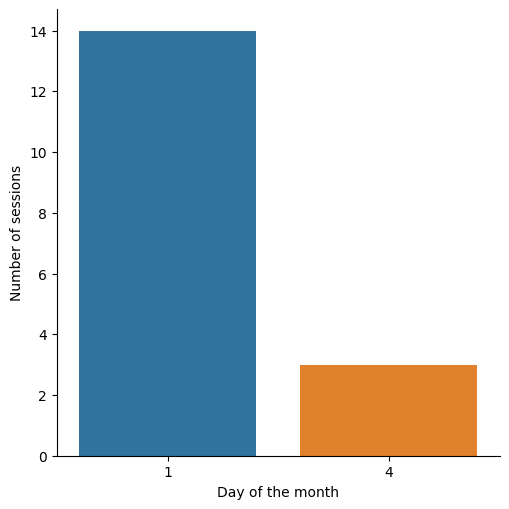
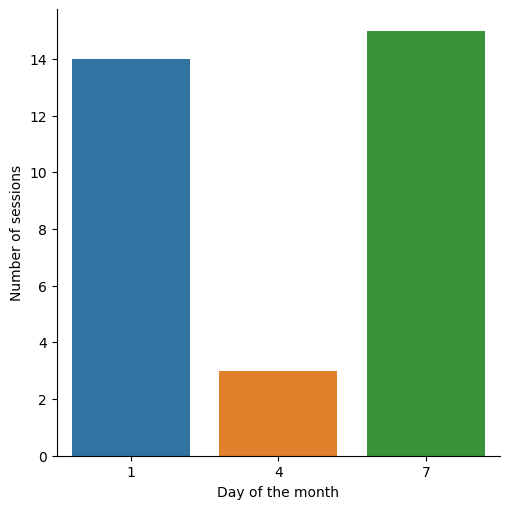
"Stats generated 2021-10-08"

diff --git a/all/2021/10/weekdays/3/index.html b/all/2021/10/weekdays/3/index.html
@@ -1,0 +1,29 @@
+<!DOCTYPE html>
+<html>
+  <head>
+    <meta charset="utf-8"/>
+    <title>Thursdays October 2021</title>
+    <link rel="stylesheet" href="../../../../../styles.css"/>
+  </head>
+  <body>
+    <div id="container">
+      <nav>
+        <ul>
+          
+            <li><a href="../../">October 2021</a></li>
+            <li class="separator"></li>
+          
+          
+        </ul>
+      </nav>
+      <main>
+        <h1>Thursdays October 2021</h1>
+        
+          <h2>Number of sessions per hour</h2>
+          <img src="sessions.png" alt="Number of sessions per hour"/>
+        
+        
+      </main>
+    </div>
+  </body>
+</html>

diff --git a/all/2021/10/days/7/index.html b/all/2021/10/days/7/index.html
@@ -1,0 +1,29 @@
+<!DOCTYPE html>
+<html>
+  <head>
+    <meta charset="utf-8"/>
+    <title>7 October 2021</title>
+    <link rel="stylesheet" href="../../../../../styles.css"/>
+  </head>
+  <body>
+    <div id="container">
+      <nav>
+        <ul>
+          
+            <li><a href="../../">October 2021</a></li>
+            <li class="separator"></li>
+          
+          
+        </ul>
+      </nav>
+      <main>
+        <h1>7 October 2021</h1>
+        
+          <h2>Number of sessions per hour</h2>
+          <img src="sessions.png" alt="Number of sessions per hour"/>
+        
+        
+      </main>
+    </div>
+  </body>
+</html>

diff --git a/all/2021/10/index.html b/all/2021/10/index.html
@@ -23,6 +23,10 @@
             
           
             
+              <li><a href="weekdays/3/">Thursday</a></li>
+            
+          
+            
               <li><a href="weekdays/4/">Friday</a></li>
             
           
@@ -36,6 +40,10 @@
           
             
               <li><a href="days/4/">4</a></li>
+            
+          
+            
+              <li><a href="days/7/">7</a></li>
             
           
         </ul>

diff --git a/all/2021/index.html b/all/2021/index.html
@@ -143,9 +143,9 @@
                   
                     <td>10.0</td>
                   
-                    <td>17.0</td>
+                    <td>32.0</td>
                   
-                    <td>5.924751466666667</td>
+                    <td>10.753473325</td>
                   
                 </tr>
               
